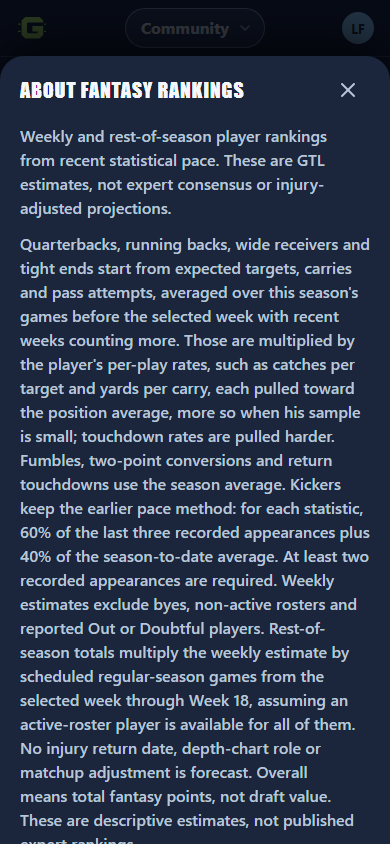
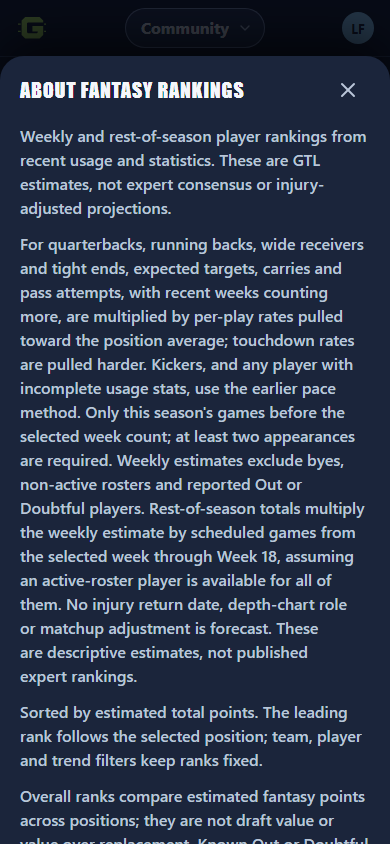
D-76 follow-up: one story on screen, pace fallback for incomplete usage stats, shorter description
- Copy: the rankings intro says "from recent usage and statistics" (both
  apps), the report card says "GTL's weekly estimates", and the old app's
  player detail says "recorded games in the estimate".
- A QB, RB, WR or TE with two or more appearances whose usage stats are
  incomplete now gets pace 1.1 instead of no estimate. Fewer than two
  appearances is still null. A new test covers it, and removing the
  fallback fails that test. The backtest's results.json is unchanged.
- The method description is now 120 words, with the same meaning.
- The "after" method mockups at 390 px (Light and Dark) were recaptured.
  The "before" pair is unchanged.
- D-76, FANTASY_FOOTBALL.md and the completion register note the fallback.

Changed region(s): [[0.0308, 0.2773, 0.9538, 1.0], [0.0308, 0.1848, 0.8308, 0.2156], [0.8308, 0.154, 0.9538, 0.1848]]

diff --git a/web/src/next/fantasy/FantasyNest.jsx b/web/src/next/fantasy/FantasyNest.jsx
@@ -15,7 +15,7 @@ import { Button, InfoButton, LockLine, Nest, Pill, Segmented, Switch, Skeleton }
 import { PlayerCompare, PlayerProfileSheet, PlayerToolButtons } from './FantasyTools.jsx';
 
 export const FANTASY_PAGE = 50;
-const INTRO = 'Weekly and rest-of-season player rankings from recent statistical pace. These are GTL estimates, not expert consensus or injury-adjusted projections.';
+const INTRO = 'Weekly and rest-of-season player rankings from recent usage and statistics. These are GTL estimates, not expert consensus or injury-adjusted projections.';
 const date = value => (!value || !Number.isFinite(Date.parse(value)) ? 'time unavailable'
   : new Intl.DateTimeFormat('en-US', { month: 'short', day: 'numeric', hour: 'numeric', minute: '2-digit', timeZone: 'America/Los_Angeles', timeZoneName: 'short' }).format(new Date(value)));
 const httpLink = value => (/^https?:\/\//.test(value || '') ? value : undefined);
@@ -143,7 +143,7 @@ export function FantasyNest({ navigationState, onNavigationState, view = {}, onL
   // Fantasy › the week's report card.
   if (snapshot && view.fantasyLayer === 'report' && filters.scope === 'weekly' && state.review) {
     return <section className="gx-screen gx-fantasy" aria-label="Fantasy Football"><h1 className="gx-t-title">Fantasy Football</h1><Nest label="Fantasy layers" layer="report" title={`Week ${state.review.week} report card`} lips={[toFantasy]}
-      info={<InfoButton title="About the report card" body={['A report card for GTL’s statistical pace estimates, not a forecast or betting claim. Each estimate is graded against the recorded result, beside a season-average baseline.']} links={sourceLinks(snapshot)}/>}>
+      info={<InfoButton title="About the report card" body={['A report card for GTL’s weekly estimates, not a forecast or betting claim. Each estimate is graded against the recorded result, beside a season-average baseline.']} links={sourceLinks(snapshot)}/>}>
       <FantasyAccuracy theme="next" review={state.review} filters={filters} scoringLabel={scoringLabel} headingLevel={3}/>
     </Nest></section>;
   }

diff --git a/web/src/FantasyFootball.jsx b/web/src/FantasyFootball.jsx
@@ -74,7 +74,7 @@ function PlayerCard({ player, theme, scope, week, position, context, tools }) {
               : context.linesNote ? <p>{context.linesNote}</p> : null}
             <p className={c('meta')}>Matchup and kickoff context are observed nflverse data, not predictions.</p>
           </div>}
-          <p>{player.sampleGames ?? '—'} recorded games in the pace estimate. Player availability is not injury-adjusted.</p>
+          <p>{player.sampleGames ?? '—'} recorded games in the estimate. Player availability is not injury-adjusted.</p>
           {player.status && <p>Roster status in source: {player.status}.</p>}
           <strong>Trends entering Week {week}</strong>
           {trends.length ? <ul className={c('trend-details')}>
@@ -121,7 +121,7 @@ export function FantasyRankingsView({ theme = 'classic', headingLevel = 1, onBac
     <div className={c('heading')}><Heading className={theme === 'next' ? 'gx-t-title' : undefined}>Fantasy Football</Heading>
       {onBack && <Action theme={theme} onClick={onBack}>{backLabel}</Action>}
     </div>
-    <p className={c('intro')}>Weekly and rest-of-season player rankings from recent statistical pace. These are GTL estimates, not expert consensus or injury-adjusted projections.</p>
+    <p className={c('intro')}>Weekly and rest-of-season player rankings from recent usage and statistics. These are GTL estimates, not expert consensus or injury-adjusted projections.</p>
     <Surface theme={theme} className={c('filters')} aria-label="Fantasy rankings filters">
       {theme === 'next' ? <Segmented label="Ranking period" options={SCOPE_OPTIONS} value={filters.scope} onChange={value => update('scope', value)}/>
         : <div className={c('period')} role="group" aria-label="Ranking period">{SCOPE_OPTIONS.map(option => <button type="button" key={option.value} aria-pressed={filters.scope === option.value} onClick={() => update('scope', option.value)}>{option.label}</button>)}</div>}

diff --git a/web/src/FantasyAccuracy.jsx b/web/src/FantasyAccuracy.jsx
@@ -34,7 +34,7 @@ export function FantasyAccuracy({ theme = 'classic', review, filters, scoringLab
         <Sub>Estimated too low</Sub>
         {s.unders.length ? <ol>{s.unders.map(row => <li key={row.id}>{row.name} ({row.team} {row.position}): est. {number(row.estimate)}, actual {number(row.actual)}</li>)}</ol> : <p>None.</p>}
         <p className={c('meta')}>Listed available, no stats row: {s.noStatsRow} · Played without an estimate: {s.playedWithoutEstimate}. Neither is scored as zero.</p>
-        <p className={c('meta')}>A report card for GTL's statistical pace estimates, not a forecast or betting claim.</p>
+        <p className={c('meta')}>A report card for GTL's weekly estimates, not a forecast or betting claim.</p>
       </details>
     </> : <p>No graded players for Week {review.week} under these settings.</p>}
   </>;

diff --git a/docs/COMPLETION_REGISTER.md b/docs/COMPLETION_REGISTER.md
@@ -4,12 +4,16 @@
 
 Sean: "Yes, switch to usage" (ask a19, Board item 64).
 - **Method:** "GTL usage" 2.0 replaces "GTL statistical pace" 1.1 for QB, RB, WR and TE, with the settings the
-  [backtest](FANTASY_BACKTEST_2026_11_03.md) chose on 2024 (half-life 4, K_eff 25, K_td 50). Kickers keep pace 1.1.
+  [backtest](FANTASY_BACKTEST_2026_11_03.md) chose on 2024 (half-life 4, K_eff 25, K_td 50). Kickers keep pace 1.1, and
+  a skill player whose usage stats are incomplete falls back to pace 1.1 instead of losing his estimate.
+- **Screen copy:** the rankings ⓘ intro, the report card and the old app's player detail no longer say "pace". The
+  method description is 120 words.
 - **Code:** the usage pieces moved to `shared/fantasy-usage.mjs`, which both the build and the backtest import, so the
   build ships exactly what the backtest graded. Rerunning `node scripts/fantasy-backtest.mjs --seasons 2024,2025` after the
   move gave a `results.json` identical apart from its timestamp.
 - **Checks:** a test proves the build's weekly estimate equals `usage()` called directly on the same history, week and
-  league rates. The nine named Fantasy and Points test files pass with `# skipped 0`, and the kicker mutation is caught.
+  league rates. Another proves the pace fallback. The nine named Fantasy and Points test files pass with `# skipped 0`,
+  and the kicker and fallback mutations are caught.
 - **Mockups:** the method ⓘ at 390 px in Light and Dark, before and after, are in `design/qa/fantasy-usage-2026-11-03/`.
 - **Status:** **not released.** It lands with the first Fantasy refresh after merge, which needs Sean's OK on the
   mockups. Published snapshots, reviews, Points slates and Houses are never recomputed.

diff --git a/docs/DECISIONS.md b/docs/DECISIONS.md
@@ -14,6 +14,12 @@ Sean, November 3, 2026: "Yes, switch to usage" (ask a19, Board item 64), after t
   - The settings were chosen on 2024 alone. The build calls the same `usage()` the backtest graded
     (`shared/fantasy-usage.mjs`); the settings are `USAGE_SETTINGS` in `shared/fantasy-build.mjs`.
   - There is no opponent adjustment. It added nothing on the 2025 holdout.
+  - **Pace fallback (follow-up, same day):** `usage()` needs every used stat in every prior appearance. A QB, RB, WR or
+    TE with two or more appearances where one is unknown (a missing targets cell, say) gets pace 1.1 instead of no
+    estimate. Pace still leaves that stat null, and a missing scoring stat still means no estimate. The backtest saw 0
+    such player-weeks, so its numbers are unchanged.
+- **Screen copy:** the rankings ⓘ now says "from recent usage and statistics", and the report card says "GTL's weekly
+  estimates" instead of "statistical pace". The method description is shortened to 120 words.
 - **Evidence, 2025 holdout (4,855 player-weeks, Full PPR):** MAE 4.451 for usage, 4.542 for the season average and
   4.600 for pace 1.1.
   - usage − season average: −0.090, 95% CI [−0.125, −0.054] resampling player-weeks, [−0.130, −0.050] resampling players.

diff --git a/docs/FANTASY_FOOTBALL.md b/docs/FANTASY_FOOTBALL.md
@@ -45,8 +45,10 @@ appearances strictly before the selected week, and at least two of them are requ
     stats, rostered or not.
   - **Other stats:** fumbles lost, two-point conversions and return TDs use the
     season average.
-  - **Line:** the stat line is opportunities × rates. A history with any unknown
-    stat gives no estimate rather than a partial one.
+  - **Line:** the stat line is opportunities × rates.
+  - **Pace fallback:** usage needs every used stat in every appearance. A history
+    with an unknown one (a missing targets cell, say) falls back to pace 1.1, which
+    leaves that stat null. A missing scoring stat still means no estimate.
 - **Kickers:** keep pace 1.1 (`estimatePace`): per stat, 60% of the last three
   recorded appearances plus 40% of the season-to-date average. The backtest did
   not cover kickers.
